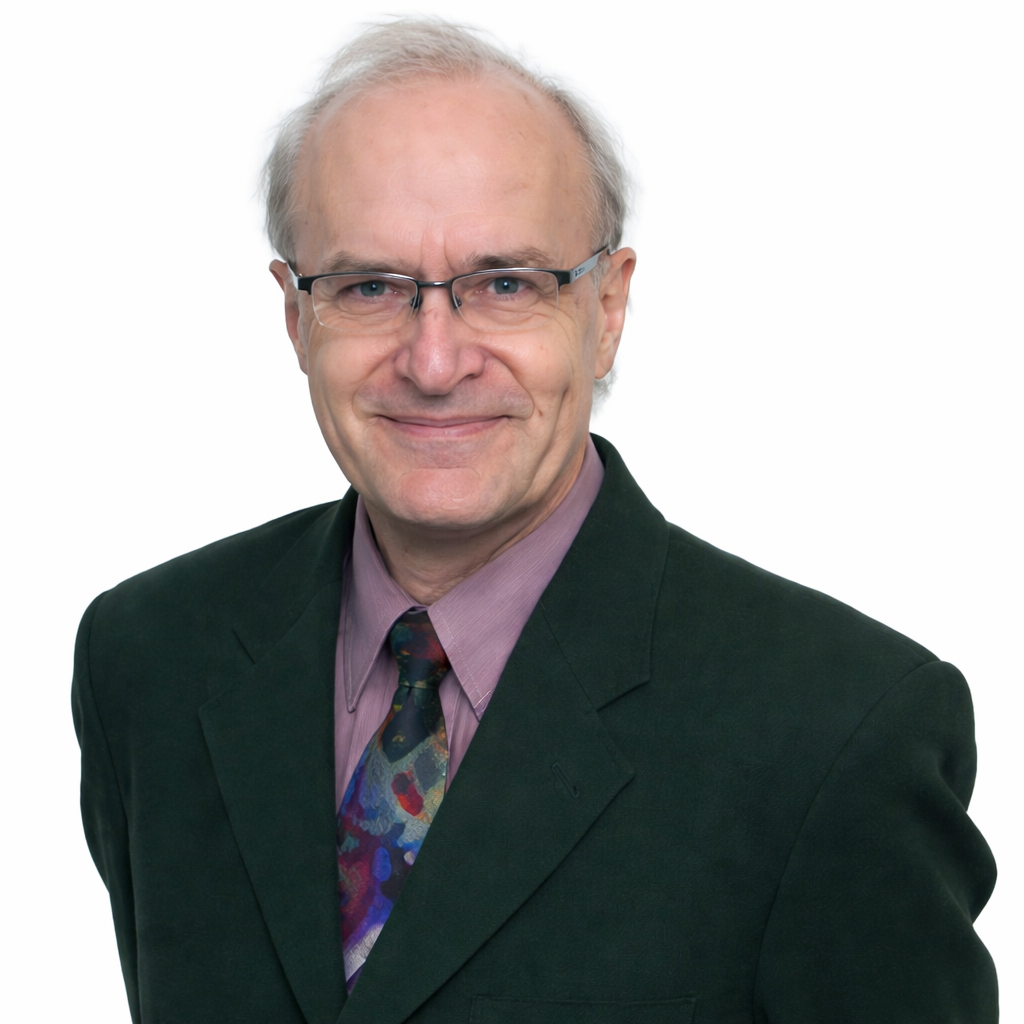
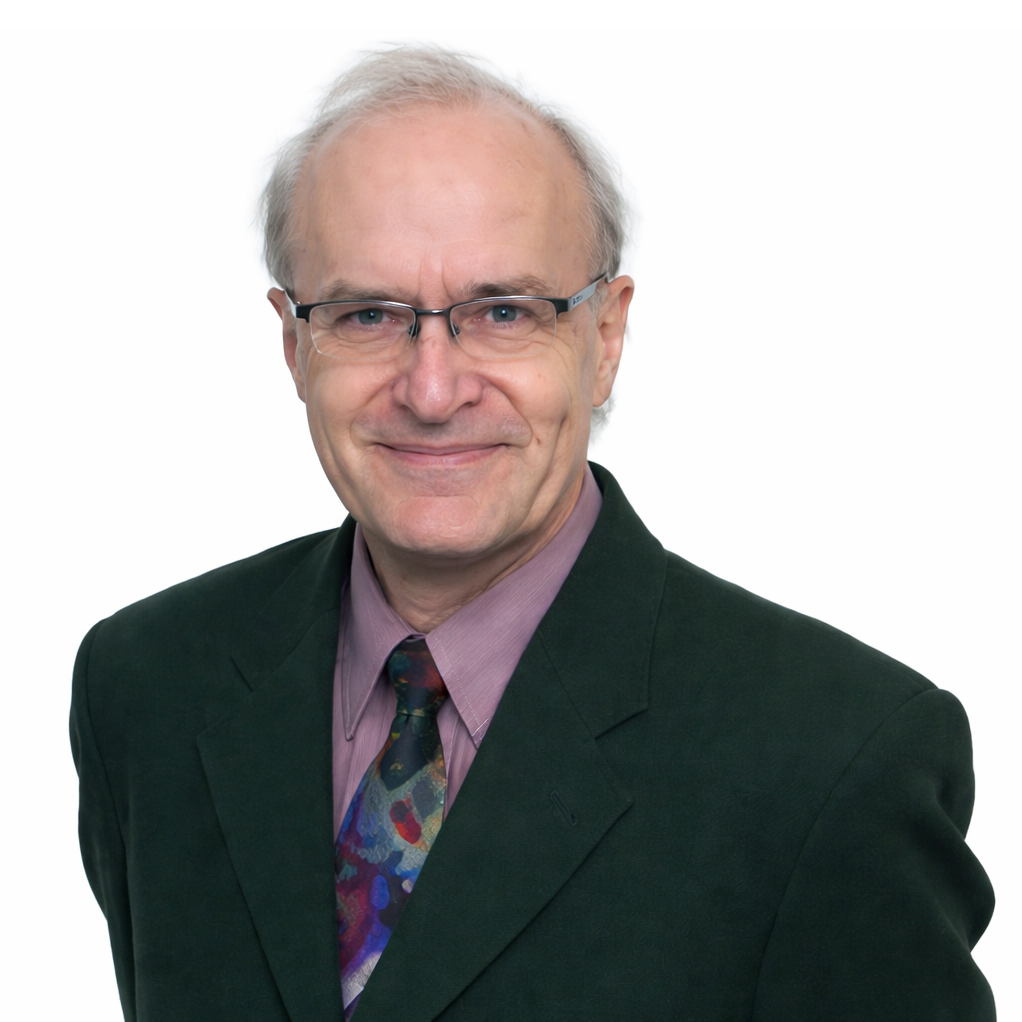
slide arno picture

diff --git a/app/team/page.tsx b/app/team/page.tsx
@@ -62,7 +62,7 @@ export default function Team() {
       role: "Managing Partner",
       specialty: "Environmental Science",
       image: "/images/Arno.png",
-      imagePosition: "object-[center_15%]",
+      imagePosition: "object-top",
       bio: "Leading authority in natural capital accounting and ecosystem services valuation, with extensive experience in carbon markets, regulatory compliance, and environmental impact assessment.",
       linkedin: "https://linkedin.com/in/arno-neumann-a6913b19",
       twitter: "https://x.com/ArnoNeumann",
